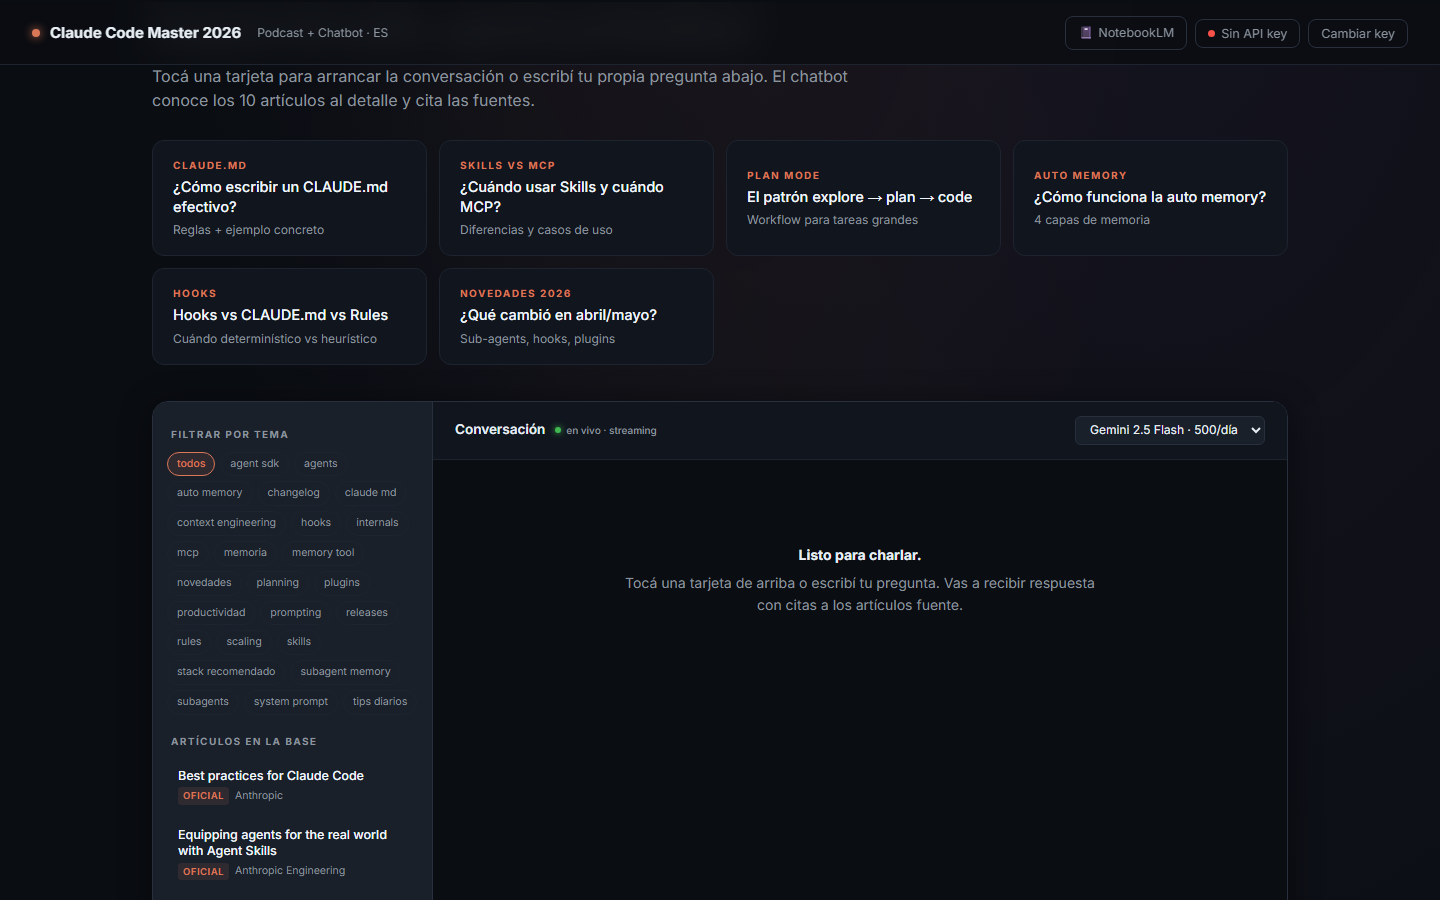
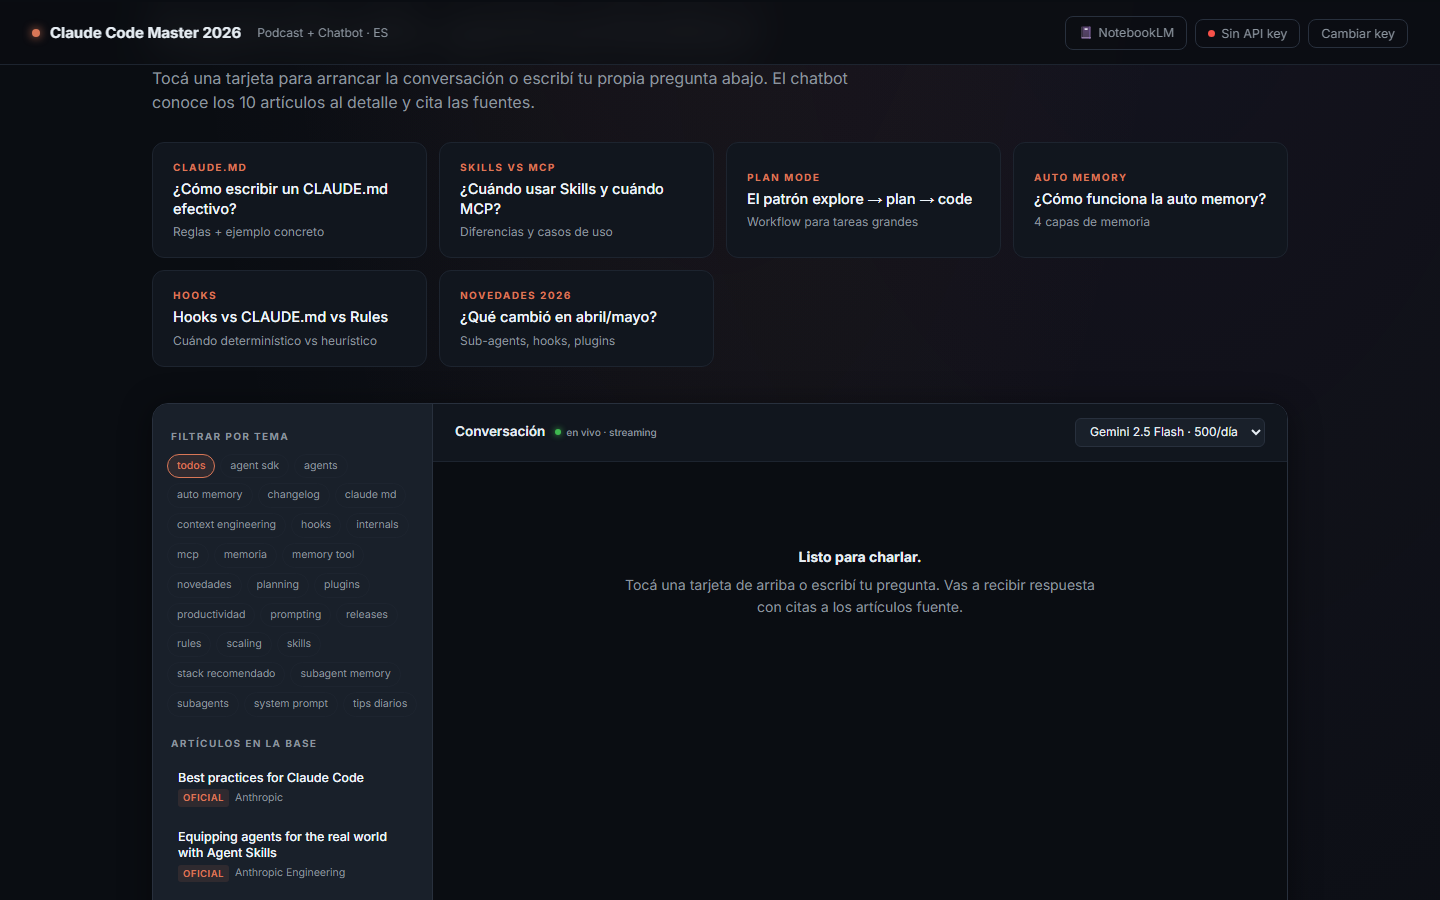
Replace cover with square podcast art (Las mejores practicas de Claude)

diff --git a/chatbot_template.html b/chatbot_template.html
@@ -86,7 +86,7 @@ a:hover { text-decoration: underline; }
 /* ===== HERO ===== */
 .hero {
   display: grid;
-  grid-template-columns: minmax(380px, 480px) 1fr;
+  grid-template-columns: minmax(320px, 380px) 1fr;
   gap: 48px;
   max-width: 1200px;
   margin: 0 auto;
@@ -95,13 +95,13 @@ a:hover { text-decoration: underline; }
 }
 .cover {
   position: relative;
-  aspect-ratio: 2752 / 1536;
+  aspect-ratio: 1 / 1;
   width: 100%;
   border-radius: 16px;
   overflow: hidden;
   box-shadow:
     var(--shadow),
-    0 0 80px rgba(217, 119, 87, 0.18);
+    0 0 80px rgba(217, 119, 87, 0.22);
   background: var(--bg-panel);
 }
 .cover img {
@@ -701,7 +701,7 @@ a:hover { text-decoration: underline; }
 <header class="hero">
   <div class="cover">
     <span class="ep-tag">Episode 01</span>
-    <img src="cover.png" alt="Stack tecnologico de Nico - cover del podcast" loading="eager" />
+    <img src="cover.jpeg" alt="Las mejores practicas de Claude - cover del podcast" loading="eager" />
   </div>
   <div class="hero-info">
     <span class="eyebrow">Audio Overview · NotebookLM Deep Dive</span>

diff --git a/index.html b/index.html
@@ -86,7 +86,7 @@ a:hover { text-decoration: underline; }
 /* ===== HERO ===== */
 .hero {
   display: grid;
-  grid-template-columns: minmax(380px, 480px) 1fr;
+  grid-template-columns: minmax(320px, 380px) 1fr;
   gap: 48px;
   max-width: 1200px;
   margin: 0 auto;
@@ -95,13 +95,13 @@ a:hover { text-decoration: underline; }
 }
 .cover {
   position: relative;
-  aspect-ratio: 2752 / 1536;
+  aspect-ratio: 1 / 1;
   width: 100%;
   border-radius: 16px;
   overflow: hidden;
   box-shadow:
     var(--shadow),
-    0 0 80px rgba(217, 119, 87, 0.18);
+    0 0 80px rgba(217, 119, 87, 0.22);
   background: var(--bg-panel);
 }
 .cover img {
@@ -701,7 +701,7 @@ a:hover { text-decoration: underline; }
 <header class="hero">
   <div class="cover">
     <span class="ep-tag">Episode 01</span>
-    <img src="cover.png" alt="Stack tecnologico de Nico - cover del podcast" loading="eager" />
+    <img src="cover.jpeg" alt="Las mejores practicas de Claude - cover del podcast" loading="eager" />
   </div>
   <div class="hero-info">
     <span class="eyebrow">Audio Overview · NotebookLM Deep Dive</span>